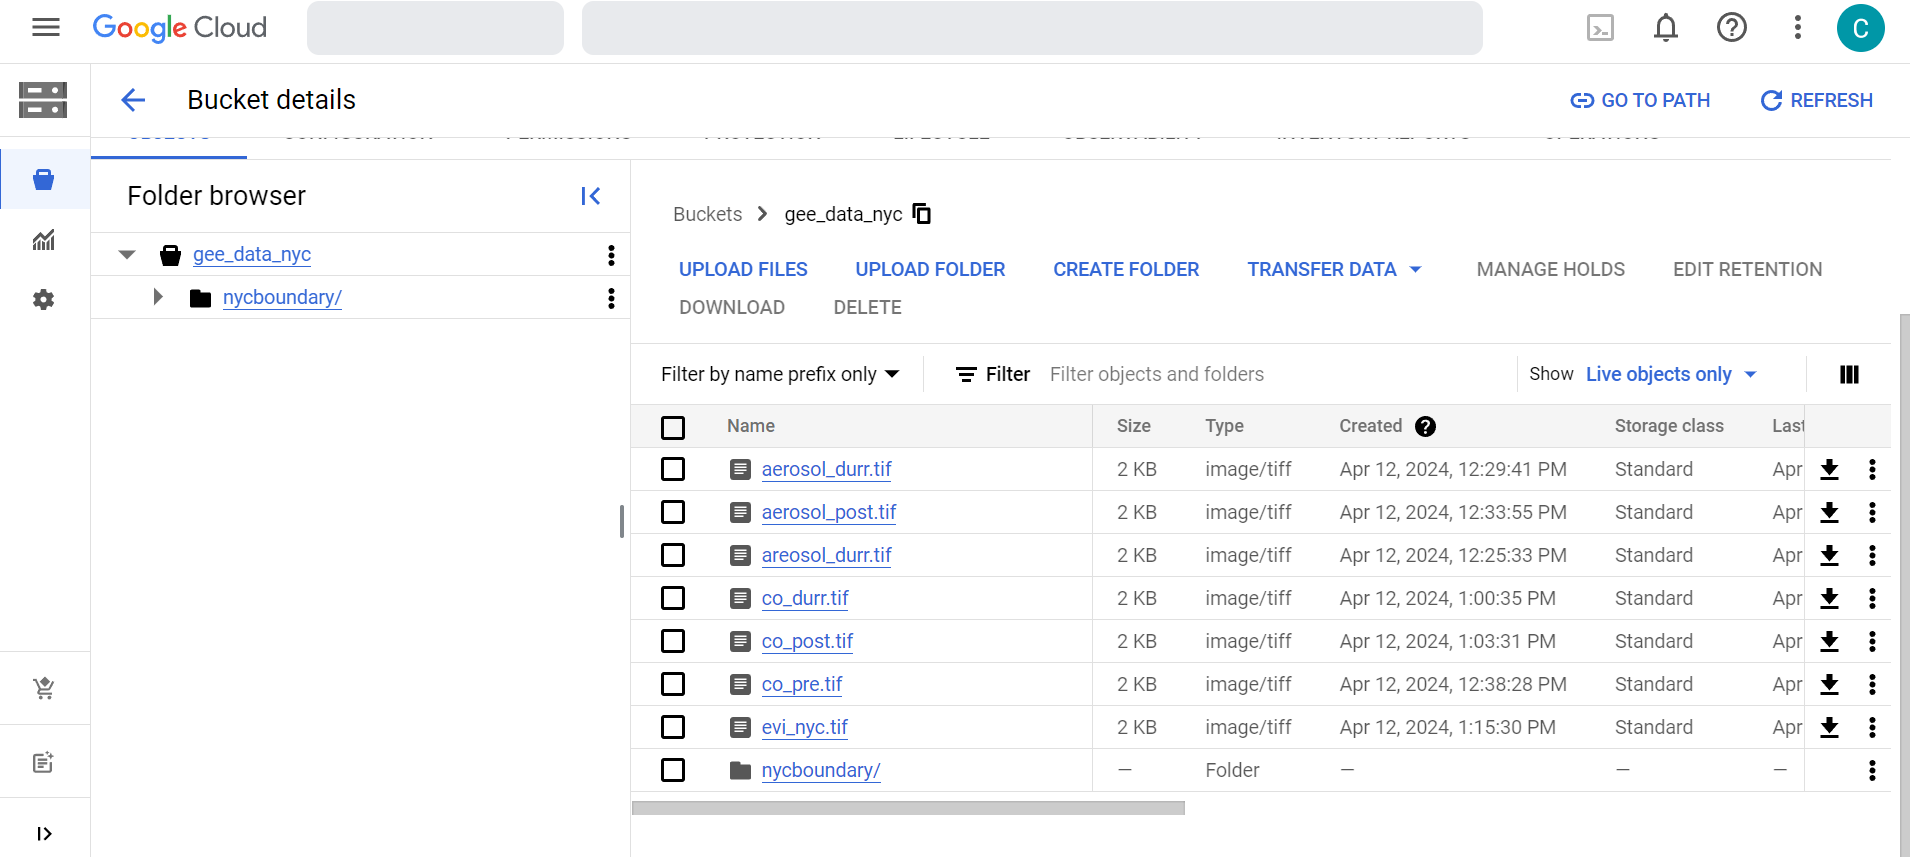
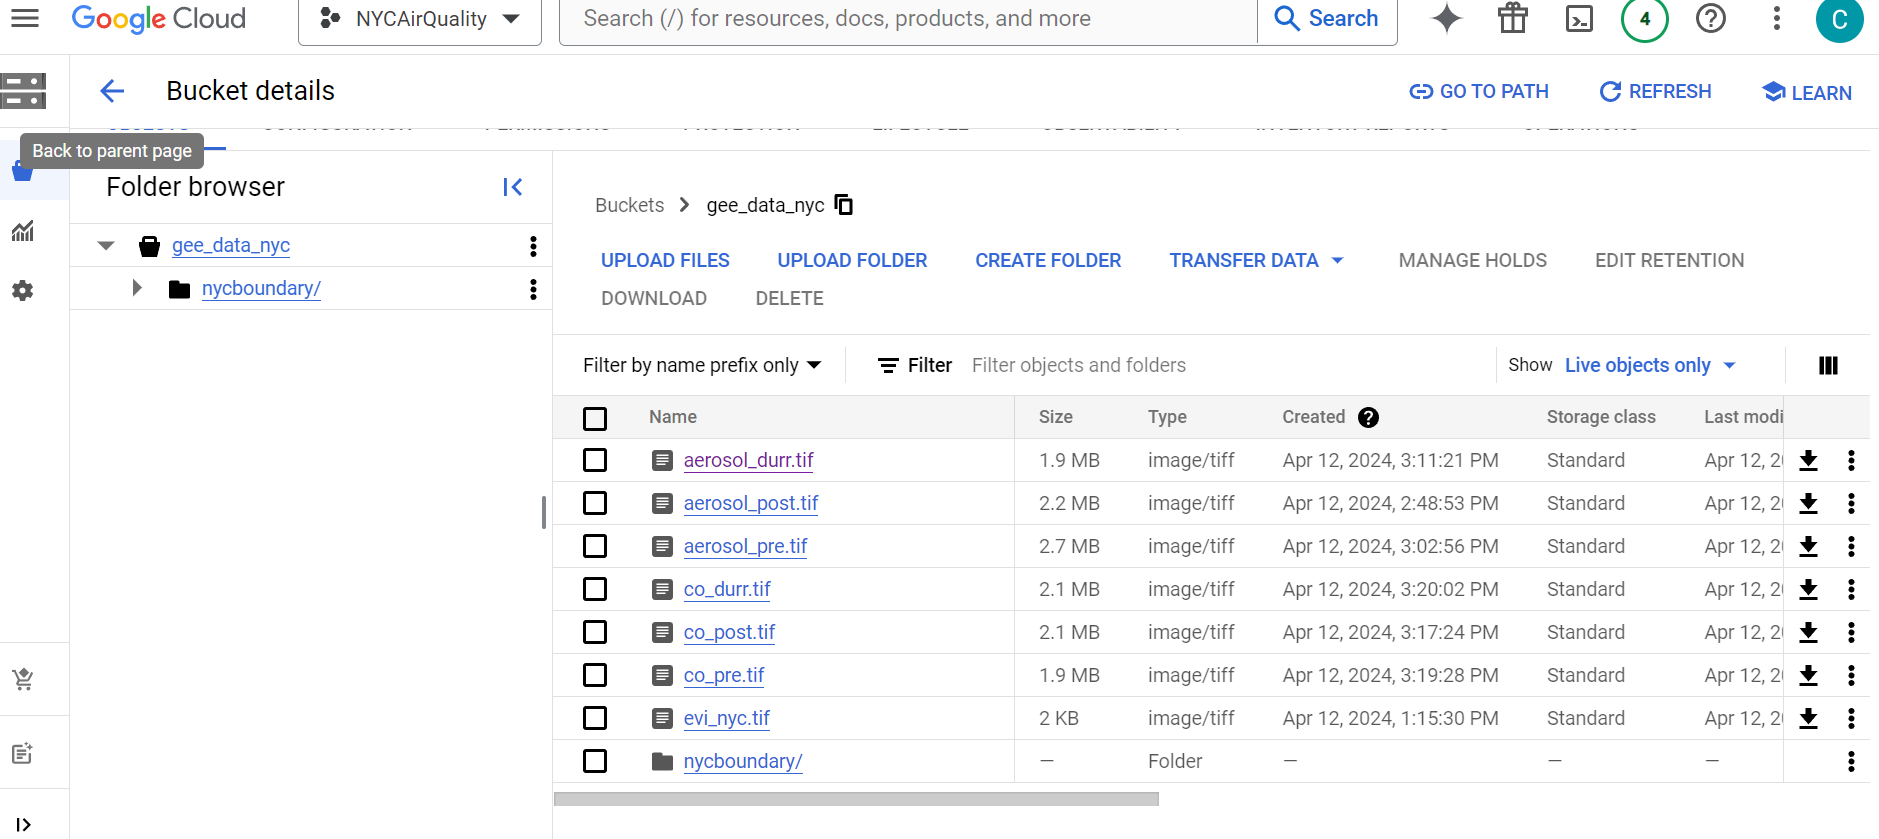
added images for data layers

diff --git a/README.md b/README.md
@@ -116,25 +116,41 @@ The tutorial I looked at also said to then do this code which will allow you to 
 
 ### Vector Data
 
-1. [City boundaries](https://data.gis.ny.gov/datasets/sharegisny::nys-civil-boundaries/explore?layer=4&location=40.695449%2C-73.623530%2C9.29) 
+1. [City boundaries](https://data.gis.ny.gov/datasets/sharegisny::nys-civil-boundaries/explore?layer=4&location=40.695449%2C-73.623530%2C9.29)  
+![Alt text](Imgs/boundary_gee.png)
 
-1. [Parks](https://data.cityofnewyork.us/Recreation/Parks-Properties/enfh-gkve/about_data) [X]
+1. [Parks](https://data.cityofnewyork.us/Recreation/Parks-Properties/enfh-gkve/about_data)
 
 1. [2020 US census data](https://data.cityofnewyork.us/City-Government/2020-Census-Tracts-Tabular/63ge-mke6/about_data) [X]
 
-1. [2020 Neighborhood Data](https://data.cityofnewyork.us/City-Government/2020-Neighborhood-Tabulation-Areas-NTAs-Tabular/9nt8-h7nd/about_data) [X]
+1. [2020 Neighborhood Data](https://data.cityofnewyork.us/City-Government/2020-Neighborhood-Tabulation-Areas-NTAs-Tabular/9nt8-h7nd/about_data)
 
-1. [Borough boundaries](https://data.cityofnewyork.us/City-Government/Borough-Boundaries/tqmj-j8zm) [x]
+1. [Borough boundaries](https://data.cityofnewyork.us/City-Government/Borough-Boundaries/tqmj-j8zm)
 
 ### Raster Data
 
 1. [UV Aerosol Index (GEE)](https://developers.google.com/earth-engine/datasets/catalog/COPERNICUS_S5P_NRTI_L3_AER_AI)
 
+![pre](Imgs/Aerosol_pre.png)
+
+![durr](Imgs/Aerosol_durr.png)
+
+![post](Imgs/Aerosol_post.png)
+
+
 1. [CO Concentrations(GEE)](https://developers.google.com/earth-engine/datasets/catalog/COPERNICUS_S5P_NRTI_L3_CO)
+
+![pre - one year before](Imgs/co_pre.png)
+
+![durring](Imgs/co_durr.png)
+
+![post 1 month later](Imgs/co_post.png)
+
 
 1. EVI (GEE)
     - Written by Clio Bate, adapted from a thread of [Stack Exchange](https://gis.stackexchange.com/questions/370978/time-series-chart-of-evi-landsat-8-for-a-single-pixel-in-gee
-with the help of Chat GPT to make visualizations)
+with the help of Chat GPT to make visualizations)  
+![Alt text](Imgs/evi_gee.png)
 
 1. [Elevation 1ft DEM](https://data.cityofnewyork.us/City-Government/1-foot-Digital-Elevation-Model-DEM-Integer-Raster/7kuu-zah7/about_data) [X]
 
@@ -142,38 +158,38 @@ with the help of Chat GPT to make visualizations)
 
 ### Data Aquisition
 
-1. Download vector data from (NYC Open Data)[https://opendata.cityofnewyork.us/] and save locally on computer
+1. Download vector data from (NYC Open Data)[https://opendata.cityofnewyork.us/] and save locally on computer.
+1. Reproject all the data to ensure its in a Geospatial Cordinate Sytesm EPSG:4326 and then upload to GitHub repository. All vector data (exept for NYCBoundary) is located in Data_Reprojected.
 1. The NYC Boundary Data  was loaded into GEE, only the NYC bounary was selected to be use as a boundary for my raster data and saved as a new variable. Then it was exported to Cloud storage from GEE using the following code:
 1. Aquire Raster
-    - Elevation data from NYC Open Data Enable *Google Earth Engine API*
-    - Aquire Data from GEE 
-    - Export Data from GEE to Cloud Storage **see code... will add**
+    - Elevation data from NYC Open Data Enable
+    - Aquire Aresol, EVI, and CO Data from GEE 
+        - See x and x file for source code.
+        - Enable the Google Earth Engine API in Console.
+    - Export Data from GEE to Cloud Storage
     ```
     // Export the image to Cloud Storage. 
     Export.image.toCloudStorage({
-        image: evi_exp,
+        image: evi_exp, // name of your feature/image
         description: 'evi_export',
         bucket: 'gee_data_nyc',
         fileNamePrefix: 'evi_nyc',
         crs: 'EPSG:4326',
         scale: 30,
-        region: geometryrec
+        region: geometryrec //rectangualar geometry that defines the region to export
     });
-    
+
+    // Export a SHP file to Cloud Storage.
+    Export.table.toCloudStorage({
+        collection: nycBoundary,
+        description:'nycboundary_shapefile',
+        bucket: 'gee_data_nyc',
+        fileNamePrefix: 'nycboundary',
+        fileFormat: 'SHP'
+});
     ```
 
-
-// Export a SHP file to Cloud Storage.
-Export.table.toCloudStorage({
-  collection: nycBoundary,
-  description:'nycboundary_shapefile',
-  bucket: 'gee_data_nyc',
-  fileNamePrefix: 'nycboundary',
-  fileFormat: 'SHP'
-});
-
-
-After exporting each of the images, from GEE. The bucket should look something like this. I moved all the Boundary SHP into a single folder. 
+After exporting each of the images, from GEE. The bucket should look something like this. I moved all the Boundary SHP into a single folder.  
 ![Alt text](Imgs/bucket_exported.png)
 
 ### Data Prep
